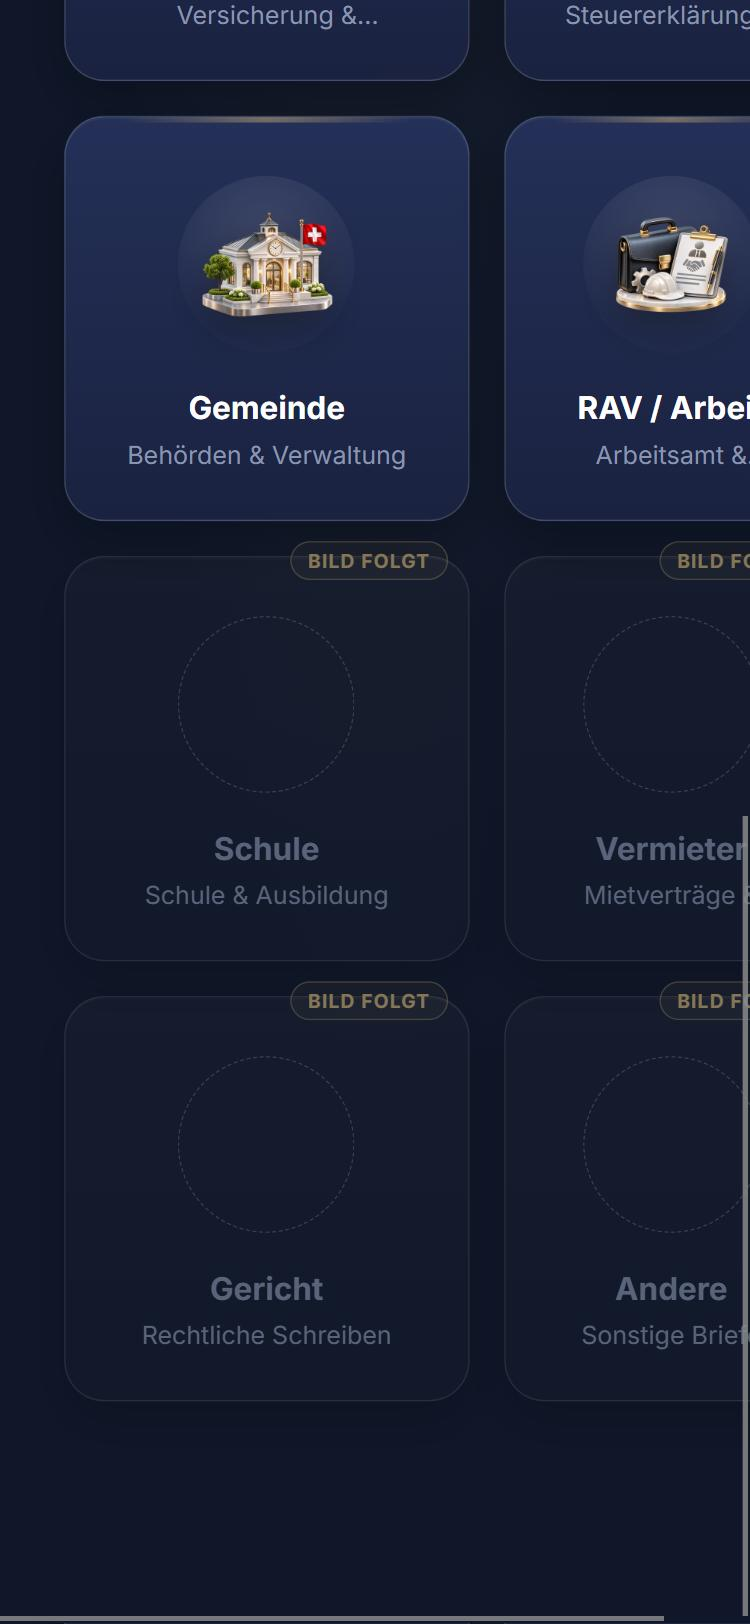
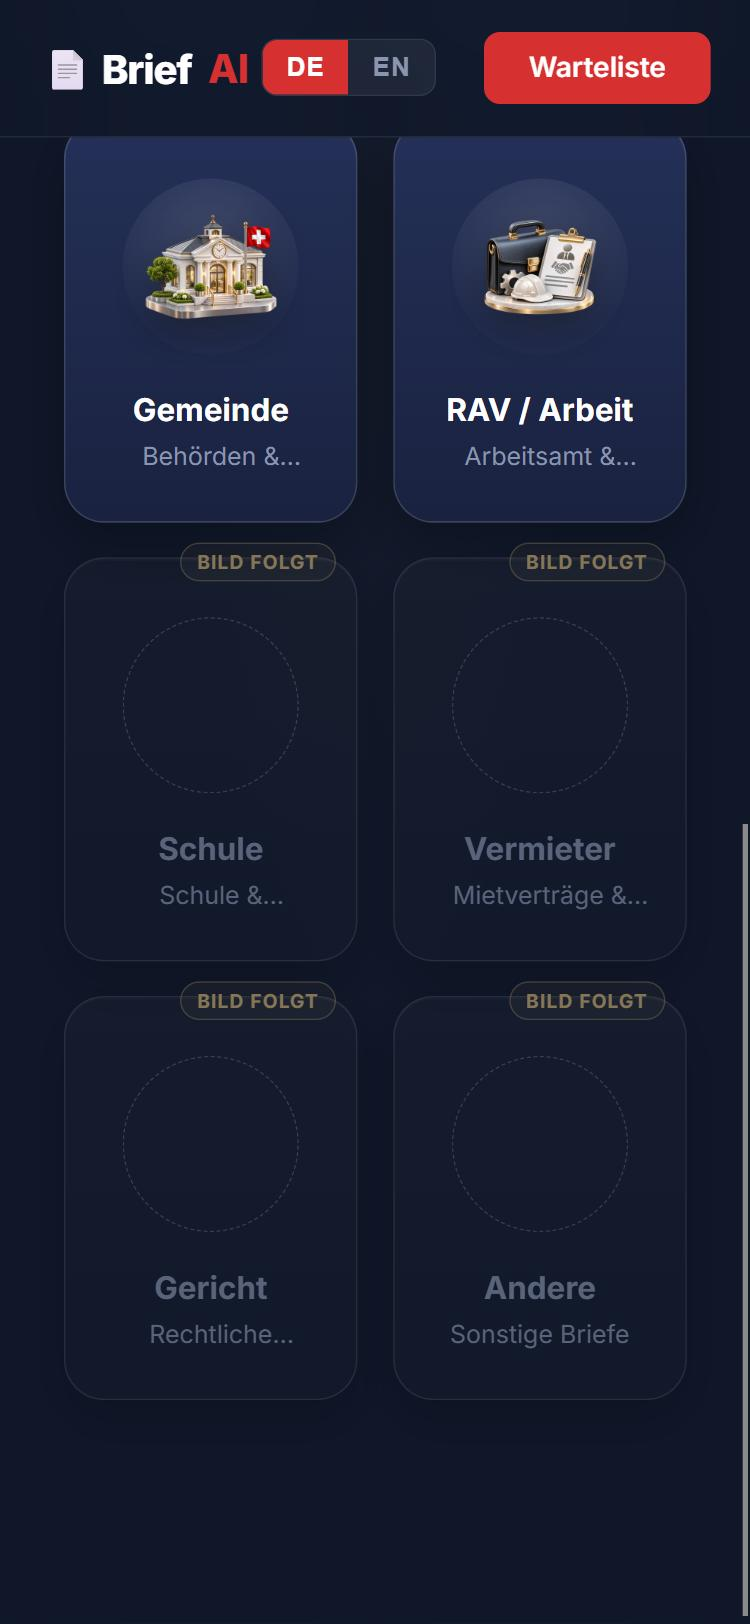
Fix: Mobile-Grid lief bei allen 3 Varianten rechts aus dem Viewport
grid-template-columns: repeat(2, 1fr) ohne min-width:0 auf .cat-card
liess Spalten bei laengeren Titeln (z.B. "IV / Behinderung") ueber
ihren 1fr-Anteil hinauswachsen -> Seite ueberbreit bei 375px, Karten
und Navi rechts abgeschnitten. Per Browser nachgestellt und mit
scrollWidth/clientWidth bestaetigt (419px statt 375px vorher, exakt
375px nachher). Screenshots aller drei Varianten neu aufgenommen.

diff --git a/design-exploration/variant-c.html b/design-exploration/variant-c.html
@@ -53,6 +53,7 @@ nav {
   position: relative; display: block; text-decoration: none; color: inherit;
   border-right: 1px solid var(--border); border-bottom: 1px solid var(--border);
   padding: 1.6rem 1.2rem 1.5rem; text-align: center; overflow: hidden;
+  min-width: 0;
   transition: background 0.25s ease;
 }
 .cat-card::before {

diff --git a/design-exploration/variant-b.html b/design-exploration/variant-b.html
@@ -54,6 +54,7 @@ nav {
   border-radius: 20px;
   padding: 1.6rem 1.1rem 1.4rem;
   text-align: center;
+  min-width: 0;
   box-shadow: 0 1px 0 rgba(255,255,255,0.04) inset, 0 10px 24px rgba(0,0,0,0.25);
   transition: transform 0.3s cubic-bezier(.2,.8,.2,1), box-shadow 0.3s ease, border-color 0.3s ease;
 }

diff --git a/design-exploration/variant-a.html b/design-exploration/variant-a.html
@@ -56,6 +56,7 @@ nav {
   text-decoration: none; color: inherit;
   padding: 1.75rem 1rem 2rem;
   border-radius: 16px;
+  min-width: 0;
   transition: background 0.25s ease;
 }
 .cat-card:hover, .cat-card:focus-visible { background: rgba(255,255,255,0.03); }
